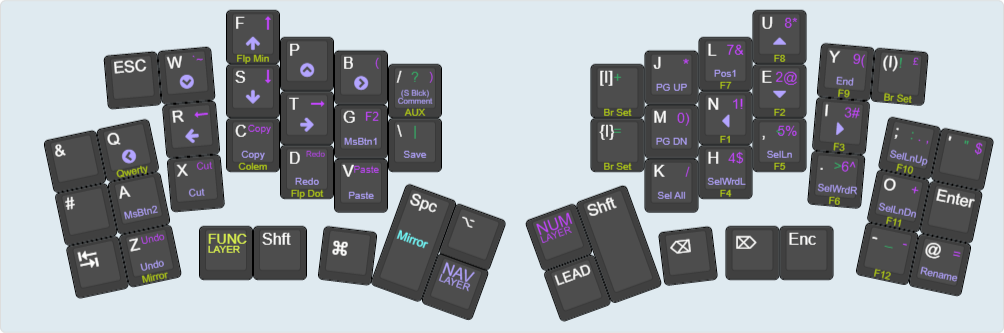
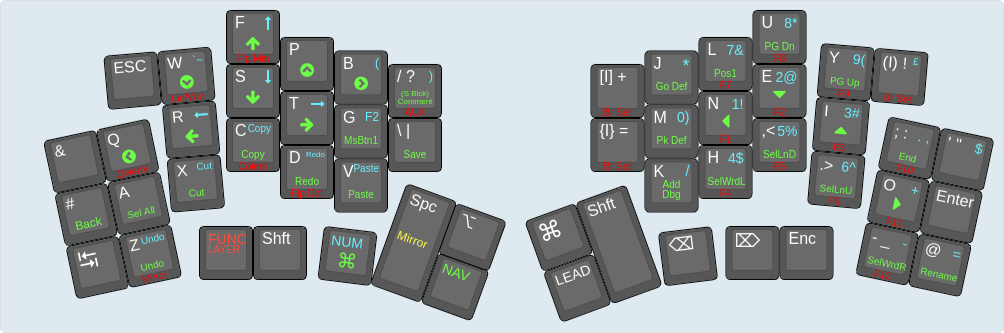
[#] updated readme

Changed region(s): [[0.5249, 0.03, 0.988, 0.9309], [0.0309, 0.03, 0.494, 0.9309]]

diff --git a/readme.md b/readme.md
@@ -30,12 +30,12 @@ Some that deserve to be mentioned above all else are:
 ![image info](./images/keymap.png)
 This is my personal keymap, main features include: one rotary encoder, Colemak-dh and Qwerty (both have somewhat modified symbols), layers, custom leader key, custom layer logic, custom oneshot modifiers, end of sentence, case modes (CAPSWORD, x_case, NUMW0RD), power brackets and dynamic info on both OLED displays.
 
-**Note:** This keymap assumes US ANSI layout on Windows OS. I have not tested it on other OS and shortcuts are the Win ones, but it should not be overly complicated to adapt.
+**Note:** This keymap assumes US ANSI layout on Linux(default) or Windows OS. Switching between the OS modes is done on the Func Layer (W-Key). I have not tested it on other OS and shortcuts are the Linux/Win ones, but it should not be overly complicated to adapt. 
 
 **Note:** There is also a default keymap included, in case anyone wants to start with a clean slate.
 
 ### Nav Layer Word and Line Selection
-The navigation layer has some dedicated keys for quick text selection. Select Line will select the whole line the cursor is on and with each additional key tap the line below, if shifted it will select up, or if lines already were selected down, it will deselect the bottom line of the current selection. Select Line Down will select the current line starting at the current cursor position. Shifted, this will select the line up, again starting at the current cursor position.     
+The navigation layer has some dedicated keys for quick text selection. Select Line Up/Down will select the whole line the cursor is on and with each additional key tap the line above/below, selection can be shrunk with the opposite key.     
 Word selection left/right will select the word below the cursor and then with each tap one more word to the left/right. The selection can be shrunk again by tapping the other select word left/right key.      
 These keys can also be held down for quickly increasing the selection.
 ### Leader Key with repeatable sequence groups
@@ -57,11 +57,11 @@ I made a few changes:
 |        |         |                        |            |
 | ------ | ------- | ---------------------- | ---------- |
 |        | E       | Show Tooltip (C+K, C+I)|            |
-|        | I       | Prv Editor Tab         | Repeatable |
-|        | L       | Peek Def (Alt+F12)     |            |
-|        | SHIFT+L | Go to Def (F12)        |            |
+|        | O       | Prv Editor Tab         | Repeatable |
+|        | L       | Peek Def (Alt+F12)     | Disabled, now on nav layer  |
+|        | SHIFT+L | Go to Def (F12)        | Disabled, now on nav layer  |
 |        | N       | Nxt Editor Tab         | Repeatable |
-|        | O       | Select all occurrences |            |
+|        | A       | Select all occurrences |            |
 |        | R       | Run W/O Debug (ctrl + F5)|          |	
 |        | SHIFT+R | Stop Debugging (shift + F5)|        |
 |        | T       | Toggle Terminal        |            |
@@ -138,6 +138,7 @@ When toggled on and then off again without any key press in between or when disa
 
 ### End Of Sentence
 This makes the transition between sentences a little smoother. Instead of typing `.`-`SPACE`-`SHIFT`- typing -`..`- has the same effect, the next character will be shifted. The idea is not mine, I think I first saw it in [@precondition](https://github.com/precondition)'s [Dactyl manuform keymap](https://github.com/precondition/dactyl-manuform-keymap). The implementation however is my work and will work without making use of One Shot Shifts.
+Edit: `Enter` and `Space` both now disarm the EOS sequence.
 ### Case Modes
 Case modes are slightly adapted to account for NO_ACTION_TAPPING, NO_ACTION_ONESHOT and for my use case.
 Description is largely the original by [@andrewjrae](https://github.com/andrewjrae).
@@ -217,6 +218,9 @@ If mirroring is on, instead of cramming yet another icon into my very limited OL
     - S for _snake_case_
     - N for Numw0rd
     - X for _CAPS_AND_SNAKE_CASE
+- OS (not shown in image) in upper right corner 
+    - W for Windows
+    - L for Linux
     
 #### Right-side OLED displays dynamic data:  
 ![image info](./images/oled_mods.png)
